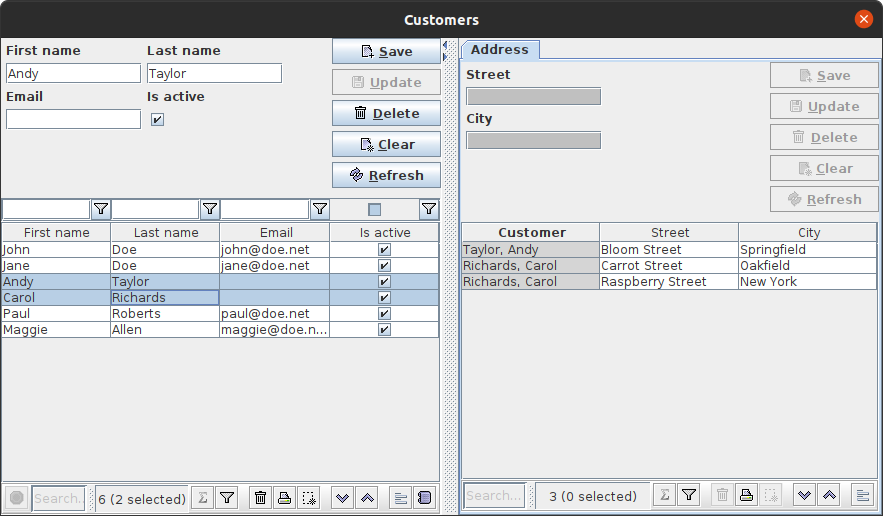
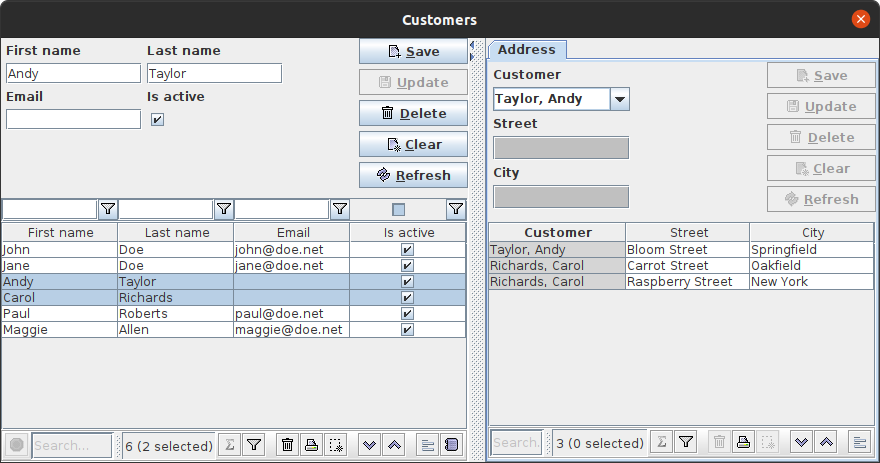
Readme improvements

Changed region(s): [[0.0, 0.0302, 1.0, 1.0]]

diff --git a/demos/manual/src/main/java/is/codion/framework/demos/manual/store/minimal/ui/CustomerPanel.java b/demos/manual/src/main/java/is/codion/framework/demos/manual/store/minimal/ui/CustomerPanel.java
@@ -22,13 +22,13 @@ import static javax.swing.JTable.AUTO_RESIZE_ALL_COLUMNS;
 
 public class CustomerPanel extends EntityPanel {
 
-  private CustomerPanel(final SwingEntityModel customerModel) {
+  private CustomerPanel(SwingEntityModel customerModel) {
     super(customerModel, new CustomerEditPanel(customerModel.getEditModel()));
   }
 
   private static class CustomerEditPanel extends EntityEditPanel {
 
-    private CustomerEditPanel(final SwingEntityEditModel editModel) {
+    private CustomerEditPanel(SwingEntityEditModel editModel) {
       super(editModel);
     }
 
@@ -49,16 +49,18 @@ public class CustomerPanel extends EntityPanel {
 
   private static class AddressEditPanel extends EntityEditPanel {
 
-    private AddressEditPanel(final SwingEntityEditModel addressEditModel) {
+    private AddressEditPanel(SwingEntityEditModel addressEditModel) {
       super(addressEditModel);
     }
 
     @Override
     protected void initializeUI() {
       setInitialFocusProperty(ADDRESS_STREET);
+      createForeignKeyComboBox(ADDRESS_CUSTOMER_FK);
       createTextField(ADDRESS_STREET).setColumns(12);
       createTextField(ADDRESS_CITY).setColumns(12);
-      setLayout(gridLayout(2, 1));
+      setLayout(gridLayout(3, 1));
+      addPropertyPanel(ADDRESS_CUSTOMER_FK);
       addPropertyPanel(ADDRESS_STREET);
       addPropertyPanel(ADDRESS_CITY);
     }
